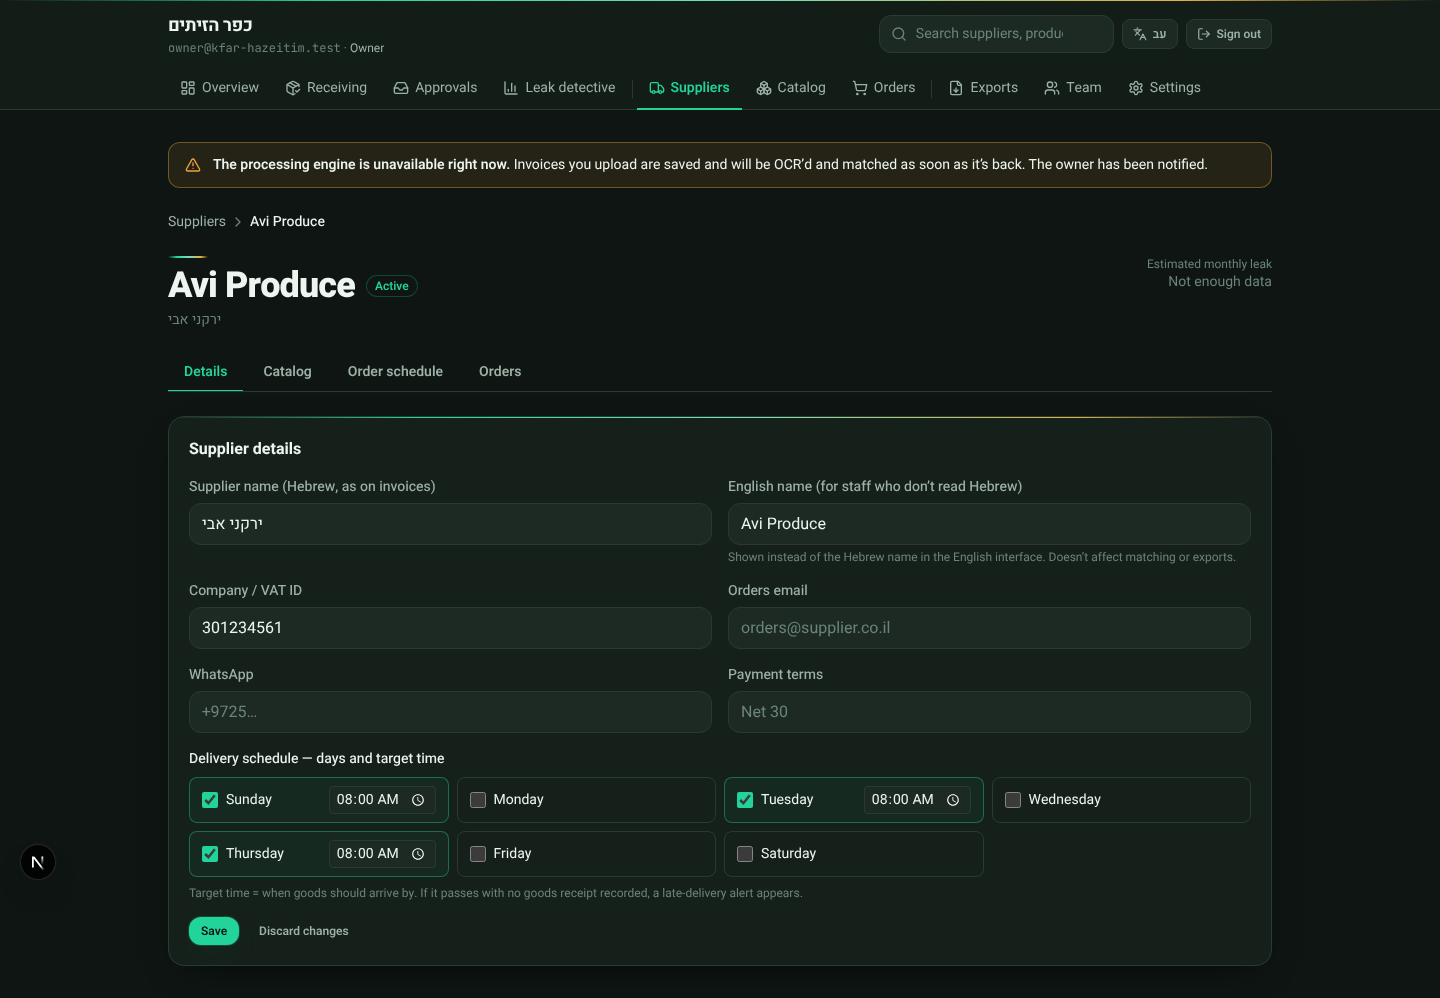
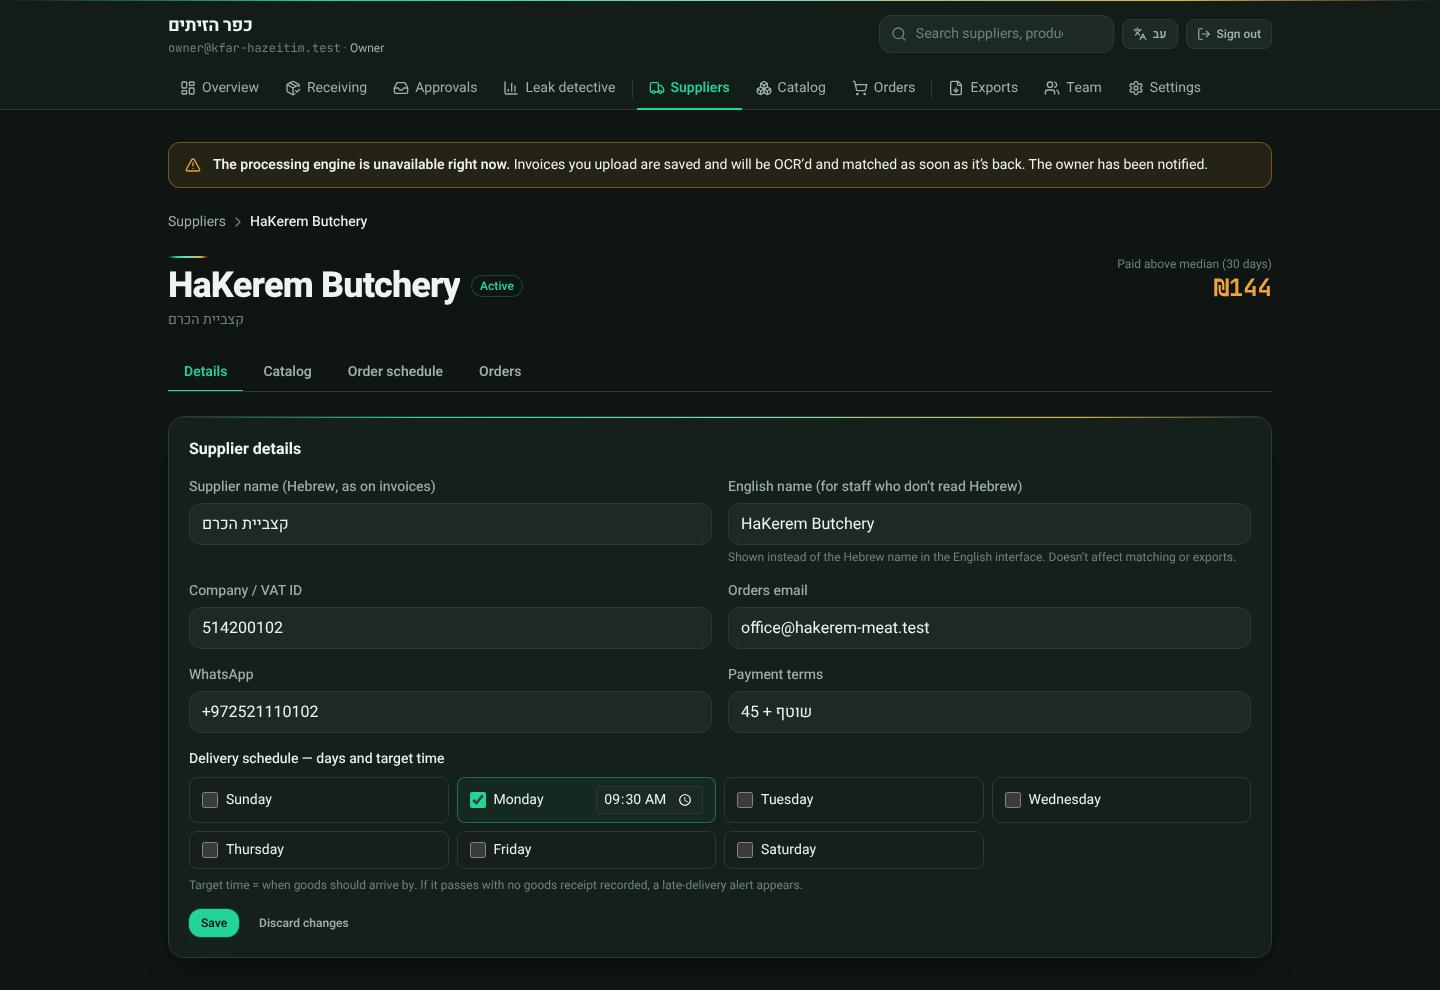
fix(ops-ui): money-QA round — supplier leak on paid basis, accounting export statuses + Israel-time days, details tab seeded from server, restaurant name lang=he
- supplier header sums paidExcessIls (₪144 = leaks page) instead of the monthExcessIls projection (₪328); relabelled 'Paid above median (30 days)'
- exports: include 'disputed' (real purchases; status column flags them), exclude unverified ocr_pending/parsed; restaurant-tz day bounds + printed date (00:30 IL on the 1st was in the previous month); exports/period.ts documents the rule; UI note updated
- supplier Details/Schedule tabs get initialData from the server page (no 'Loading supplier…' wait)
- restaurant name: <span lang=he dir=auto> in header + drawer
- tests: ops-routers.test.ts export cases (IL bounds, disputed, parsed excluded)

Claude-Session: https://claude.ai/code/session_017ijqPCABPNRkVXRY17w1zZ

diff --git a/packages/api/src/routers/exports.ts b/packages/api/src/routers/exports.ts
@@ -7,6 +7,7 @@ import {
   invoices,
   lte,
   matchRuns,
+  restaurants,
   suppliers,
 } from '@restomatch/db';
 import { bookkeeperProcedure, requireFeature, router } from '../trpc';
@@ -15,6 +16,12 @@ import { bookkeeperProcedure, requireFeature, router } from '../trpc';
 const exportProcedure = bookkeeperProcedure.use(requireFeature('accounting_export'));
 import { toCsv } from '../exports/csv';
 import { toUniform1000Lines, type Uniform1000Invoice } from '../exports/uniform-1000';
+import {
+  DEFAULT_EXPORT_TZ,
+  EXPORTABLE_INVOICE_STATUSES,
+  exportPeriodBounds,
+  localIsoDate,
+} from '../exports/period';
 
 const PeriodSchema = z.object({
   from: z.string().date(),
@@ -23,16 +30,16 @@ const PeriodSchema = z.object({
 
 export const exportsRouter = router({
   /**
-   * CSV — approved/matched invoices in a period.
+   * CSV — every checked invoice in a period (see EXPORTABLE_INVOICE_STATUSES).
    * Format: invoice_number, date, supplier, totalExclVat, vat, totalInclVat, status, ocr_confidence.
    */
   invoicesCsv: exportProcedure
     .input(PeriodSchema)
     .query(async ({ ctx, input }) => {
-      const rows = await fetchInvoices(ctx.db, ctx.session.restaurantId, input.from, input.to);
+      const { rows, tz } = await fetchInvoices(ctx.db, ctx.session.restaurantId, input.from, input.to);
       const csv = toCsv(rows, [
         { header: 'מס׳ חשבונית', value: (r) => r.invoiceNumber },
-        { header: 'תאריך', value: (r) => r.invoiceDate?.toISOString().slice(0, 10) },
+        { header: 'תאריך', value: (r) => (r.invoiceDate ? localIsoDate(r.invoiceDate, tz) : null) },
         { header: 'ספק', value: (r) => r.supplierName },
         { header: 'ח.פ.', value: (r) => r.supplierBusinessId },
         { header: 'סכום ללא מע״מ', value: (r) => r.totalExclVat },
@@ -55,12 +62,12 @@ export const exportsRouter = router({
   uniform1000: exportProcedure
     .input(PeriodSchema)
     .query(async ({ ctx, input }) => {
-      const rows = await fetchInvoices(ctx.db, ctx.session.restaurantId, input.from, input.to);
+      const { rows, tz } = await fetchInvoices(ctx.db, ctx.session.restaurantId, input.from, input.to);
       const lines: Uniform1000Invoice[] = rows
         .filter((r) => r.invoiceNumber && r.invoiceDate && r.totalInclVat !== null)
         .map((r) => ({
           invoiceNumber: r.invoiceNumber!,
-          invoiceDate: (r.invoiceDate as Date).toISOString().slice(0, 10),
+          invoiceDate: localIsoDate(r.invoiceDate as Date, tz),
           supplierBusinessId: r.supplierBusinessId ?? '',
           supplierName: r.supplierName ?? '',
           totalExclVat: Number(r.totalExclVat ?? 0),
@@ -83,12 +90,15 @@ async function fetchInvoices(
   from: string,
   to: string,
 ) {
-  // Inclusive calendar-day bounds, pinned to UTC so the server's own timezone
-  // can't shift them (`setHours` used the process TZ and dropped invoices dated
-  // late on the last day when the server ran east of UTC).
-  const fromDate = new Date(`${from}T00:00:00.000Z`);
-  const toDate = new Date(`${to}T23:59:59.999Z`);
-  return db
+  // Calendar days in the restaurant's timezone, the same month the dashboard hero uses.
+  const [restaurant] = await db
+    .select({ timezone: restaurants.timezone })
+    .from(restaurants)
+    .where(eq(restaurants.id, restaurantId))
+    .limit(1);
+  const tz = restaurant?.timezone || DEFAULT_EXPORT_TZ;
+  const { start: fromDate, end: toDate } = exportPeriodBounds(from, to, tz);
+  const rows = await db
     .select({
       id: invoices.id,
       invoiceNumber: invoices.invoiceNumber,
@@ -109,11 +119,13 @@ async function fetchInvoices(
     .where(
       and(
         eq(invoices.restaurantId, restaurantId),
-        inArray(invoices.status, ['matched', 'approved', 'paid']),
+        inArray(invoices.status, [...EXPORTABLE_INVOICE_STATUSES]),
         gte(invoices.invoiceDate, fromDate),
         lte(invoices.invoiceDate, toDate),
       ),
-    );
+    )
+    .orderBy(invoices.invoiceDate);
+  return { rows, tz };
 }
 
 // Keep matchRuns import stable (referenced via JOIN in later expansions).

diff --git a/packages/api/src/__tests__/ops-routers.test.ts b/packages/api/src/__tests__/ops-routers.test.ts
@@ -298,7 +298,7 @@ describe('catalog import: user-fixable file errors are BAD_REQUEST with a stable
   });
 });
 
-describe('exports: the "to" day is inclusive regardless of server timezone', () => {
+describe('exports: Israel-time calendar days + every checked invoice', () => {
   beforeAll(async () => {
     await resetDb(db);
     A = await seedTenant(db, 'A');
@@ -307,14 +307,40 @@ describe('exports: the "to" day is inclusive regardless of server timezone', () 
     await resetDb(db);
   });
 
-  it('includes an invoice dated late on the last day', async () => {
+  async function setInvoice(status: 'approved' | 'disputed' | 'parsed', at: string) {
     await db
       .update(invoices)
-      .set({ status: 'approved', invoiceDate: new Date('2026-10-31T22:30:00.000Z') })
+      .set({ status, invoiceDate: new Date(at) })
       .where(eq(invoices.id, A.invoiceId));
+  }
+
+  it('includes an invoice late on the last day (22:30 Israel time)', async () => {
+    await setInvoice('approved', '2026-10-31T20:30:00.000Z'); // 31 Oct 22:30 IST (UTC+2)
     const out = await callerFor(A).exports.invoicesCsv({ from: '2026-10-01', to: '2026-10-31' });
     expect(out.rowCount).toBe(1);
-    const none = await callerFor(A).exports.invoicesCsv({ from: '2026-11-01', to: '2026-11-30' });
+  });
+
+  it('an invoice at 00:30 Israel time on the 1st belongs to that month (was: previous month in UTC)', async () => {
+    await setInvoice('approved', '2026-09-30T21:30:00.000Z'); // 1 Oct 00:30 IDT (UTC+3)
+    const oct = await callerFor(A).exports.invoicesCsv({ from: '2026-10-01', to: '2026-10-31' });
+    const sep = await callerFor(A).exports.invoicesCsv({ from: '2026-09-01', to: '2026-09-30' });
+    expect(oct.rowCount).toBe(1);
+    expect(sep.rowCount).toBe(0);
+    // The printed date is the Israel calendar day too.
+    expect(oct.content).toContain('2026-10-01');
+    expect(oct.content).not.toContain('2026-09-30');
+  });
+
+  it('includes disputed invoices (real purchases) but not unverified ones', async () => {
+    await setInvoice('disputed', '2026-10-10T08:00:00.000Z');
+    const out = await callerFor(A).exports.invoicesCsv({ from: '2026-10-01', to: '2026-10-31' });
+    expect(out.rowCount).toBe(1);
+    expect(out.content).toContain('disputed');
+    const u = await callerFor(A).exports.uniform1000({ from: '2026-10-01', to: '2026-10-31' });
+    expect(u.rowCount).toBe(1);
+
+    await setInvoice('parsed', '2026-10-10T08:00:00.000Z');
+    const none = await callerFor(A).exports.invoicesCsv({ from: '2026-10-01', to: '2026-10-31' });
     expect(none.rowCount).toBe(0);
   });
 });

diff --git a/apps/web/app/dashboard/suppliers/[id]/page.tsx b/apps/web/app/dashboard/suppliers/[id]/page.tsx
@@ -1,3 +1,4 @@
+import { createServerCaller } from '@/lib/trpc/server';
 import { SupplierDetailsTab } from './tab-details';
 import { SupplierCatalogTab } from './tab-catalog';
 import { SupplierScheduleTab } from './tab-schedule';
@@ -10,7 +11,10 @@ export const dynamic = 'force-dynamic';
  * Supplier-as-hub panels. The layout renders the header + tab bar; this page
  * reads ?tab= and renders the matching panel (default: details). Catalog/orders
  * are async server components; details/schedule are client (they own the
- * suppliers.get query + mutations).
+ * suppliers.get query + mutations) and are seeded with the server-loaded row as
+ * `initialData`, so they render immediately instead of waiting on a client
+ * round trip (QA saw the Details tab stuck on "Loading supplier…" when that
+ * first client request stalled).
  */
 export default async function SupplierDetailPage({
   params,
@@ -30,12 +34,19 @@ export default async function SupplierDetailPage({
   switch (tab) {
     case 'catalog':
       return <SupplierCatalogTab supplierId={id} />;
-    case 'schedule':
-      return <SupplierScheduleTab supplierId={id} />;
     case 'orders':
       return <SupplierOrdersTab supplierId={id} />;
+    case 'schedule':
     case 'details':
-    default:
-      return <SupplierDetailsTab supplierId={id} />;
+    default: {
+      // Ownership is enforced in suppliers.get (the layout already 404s a foreign id).
+      const caller = await createServerCaller();
+      const initial = await caller.suppliers.get({ supplierId: id });
+      return tab === 'schedule' ? (
+        <SupplierScheduleTab supplierId={id} initial={initial} />
+      ) : (
+        <SupplierDetailsTab supplierId={id} initial={initial} />
+      );
+    }
   }
 }

diff --git a/packages/api/src/exports/period.ts b/packages/api/src/exports/period.ts
@@ -1,0 +1,40 @@
+import { endOfDayInTz, startOfDayInTz } from '../lib/time';
+
+/**
+ * Invoice statuses that belong in an accounting export: every invoice the
+ * restaurant actually received and the system has checked.
+ *
+ * - `matched` / `approved` / `paid`: checked purchases.
+ * - `disputed`: still a real purchase and a real tax document. It's only blocked
+ *   by an open discrepancy, and the export's status column flags it. Leaving it
+ *   out made October's export ₪4k short of the month's checked spend.
+ *
+ * Excluded: `ocr_pending` and `parsed`. They aren't verified yet: the numbers may
+ * still be wrong, or a consolidated invoice is still pending its delivery notes.
+ */
+export const EXPORTABLE_INVOICE_STATUSES = ['matched', 'disputed', 'approved', 'paid'] as const;
+
+export const DEFAULT_EXPORT_TZ = 'Asia/Jerusalem';
+
+/**
+ * Inclusive calendar-day bounds (`YYYY-MM-DD`) in the restaurant's timezone,
+ * the same month the dashboard hero uses. With UTC bounds, an invoice dated
+ * 00:00–03:00 Israel time on the 1st fell into the previous month.
+ * Noon UTC is always inside the same calendar day for any |offset| < 12h.
+ */
+export function exportPeriodBounds(from: string, to: string, tz: string): { start: Date; end: Date } {
+  return {
+    start: startOfDayInTz(new Date(`${from}T12:00:00.000Z`), tz),
+    end: endOfDayInTz(new Date(`${to}T12:00:00.000Z`), tz),
+  };
+}
+
+/** `YYYY-MM-DD` of an instant in `tz` (the date printed in the export). */
+export function localIsoDate(d: Date, tz: string): string {
+  return new Intl.DateTimeFormat('en-CA', {
+    timeZone: tz,
+    year: 'numeric',
+    month: '2-digit',
+    day: '2-digit',
+  }).format(d);
+}

diff --git a/apps/web/app/dashboard/suppliers/[id]/tab-details.tsx b/apps/web/app/dashboard/suppliers/[id]/tab-details.tsx
@@ -2,6 +2,7 @@
 
 import { useState } from 'react';
 import { useRouter } from 'next/navigation';
+import type { Supplier } from '@restomatch/db';
 import { trpc } from '@/lib/trpc/client';
 import { ErrorNotice, Spinner, friendlyError, useToast } from '@/lib/components';
 import { useT } from '@/lib/i18n/client';
@@ -16,13 +17,13 @@ import { scheduleToForm, toUpdatePatch } from '../form-logic';
  * edited with one code path. Saves via suppliers.update; cleared fields are
  * sent as null so they really clear.
  */
-export function SupplierDetailsTab({ supplierId }: { supplierId: string }) {
+export function SupplierDetailsTab({ supplierId, initial }: { supplierId: string; initial?: Supplier }) {
   const t = useT(suppliersNs);
   const tc = useT(components);
   const toast = useToast();
   const router = useRouter();
   const utils = trpc.useUtils();
-  const supplier = trpc.suppliers.get.useQuery({ supplierId });
+  const supplier = trpc.suppliers.get.useQuery({ supplierId }, { initialData: initial });
   // Bumped after a successful save so the form re-hydrates from the saved row.
   const [formKey, setFormKey] = useState(0);
 

diff --git a/apps/web/app/dashboard/suppliers/[id]/tab-schedule.tsx b/apps/web/app/dashboard/suppliers/[id]/tab-schedule.tsx
@@ -3,6 +3,7 @@
 import { useState } from 'react';
 import type { OrderSchedule, OrderWindow } from '@restomatch/types';
 import { CalendarClock, Plus, Trash2 } from 'lucide-react';
+import type { Supplier } from '@restomatch/db';
 import { trpc } from '@/lib/trpc/client';
 import {
   Button,
@@ -74,12 +75,12 @@ function formToSchedule(rows: WindowForm[]): OrderSchedule | null {
  * can actually be persisted (it used to fall back to the empty state, leaving
  * the old schedule in the database).
  */
-export function SupplierScheduleTab({ supplierId }: { supplierId: string }) {
+export function SupplierScheduleTab({ supplierId, initial }: { supplierId: string; initial?: Supplier }) {
   const t = useT(suppliersNs);
   const tc = useT(components);
   const toast = useToast();
   const utils = trpc.useUtils();
-  const supplier = trpc.suppliers.get.useQuery({ supplierId });
+  const supplier = trpc.suppliers.get.useQuery({ supplierId }, { initialData: initial });
   const [rows, setRows] = useState<WindowForm[] | null>(null);
 
   const update = trpc.suppliers.update.useMutation({

diff --git a/apps/web/app/dashboard/suppliers/[id]/layout.tsx b/apps/web/app/dashboard/suppliers/[id]/layout.tsx
@@ -41,14 +41,20 @@ export default async function SupplierDetailLayout({
     throw err;
   }
 
-  // Real-leak ₪ for this supplier: sum monthExcessIls across its leak rows.
+  // Real-leak ₪ for this supplier: what was actually PAID above the 90-day
+  // median over the last 30 days (paidExcessIls) — the same basis as the leaks
+  // page. monthExcessIls is a projection that re-prices past purchases at the
+  // latest price and overstated this header (₪328 vs ₪144 paid for HaKerem).
   // owner.leaks is advanced_analytics-gated — a closed gate (or any error) just
   // leaves the figure muted; we never fabricate a number.
   let leakIls: number | null = null;
   try {
     const leaks = await caller.owner.leaks({ limit: 100 });
     const rows = leaks.filter((l) => l.supplierId === id);
-    leakIls = rows.length > 0 ? rows.reduce((sum, l) => sum + l.monthExcessIls, 0) : null;
+    leakIls =
+      rows.length > 0
+        ? rows.reduce((agorot, l) => agorot + Math.round(l.paidExcessIls * 100), 0) / 100
+        : null;
   } catch {
     leakIls = null;
   }

diff --git a/apps/web/lib/i18n/messages/accounting/he.ts b/apps/web/lib/i18n/messages/accounting/he.ts
@@ -31,5 +31,5 @@ export const he = {
   downloaded: 'הקובץ ירד — {count} חשבוניות.',
   downloadedEmpty: 'אין חשבוניות מאושרות בטווח הזה. הקובץ ירד ריק (כותרות בלבד).',
   failed: 'ההורדה נכשלה.',
-  note: 'נכללות רק חשבוניות בסטטוס "הותאמה", "אושרה" או "שולמה". חשבוניות עם חריגות פתוחות לא יופיעו.',
+  note: 'נכללות כל החשבוניות שנבדקו: "הותאמה", "בחריגה" (מסומנת בעמודת הסטטוס), "אושרה" ו"שולמה". חשבוניות שעדיין בעיבוד OCR או חשבוניות ריכוז שממתינות לתעודות משלוח אינן נכללות. התאריכים לפי שעון ישראל.',
 };

diff --git a/apps/web/app/dashboard/layout.tsx b/apps/web/app/dashboard/layout.tsx
@@ -64,7 +64,11 @@ export default async function DashboardLayout({ children }: { children: React.Re
               />
               <div className="min-w-0 flex-1 lg:flex-none">
                 <p className="truncate text-lg font-bold tracking-tight text-ink">
-                  {active.restaurantName}
+                  {/* Tenant data (usually Hebrew) inside a possibly-English UI: mark the
+                      language and isolate its direction without changing alignment. */}
+                  <span lang="he" dir="auto">
+                    {active.restaurantName}
+                  </span>
                 </p>
                 <p className="truncate text-xs text-subtle">
                   <span className="font-mono tabular-nums">{email}</span>

diff --git a/apps/web/lib/i18n/messages/accounting/en.ts b/apps/web/lib/i18n/messages/accounting/en.ts
@@ -30,5 +30,5 @@ export const en: Shape<typeof he> = {
   downloaded: 'Downloaded — {count} invoices.',
   downloadedEmpty: 'No approved invoices in this range. The file downloaded empty (headers only).',
   failed: 'Download failed.',
-  note: 'Only invoices with status “matched”, “approved” or “paid” are included. Invoices with open discrepancies are left out.',
+  note: 'Every checked invoice is included: “matched”, “disputed” (flagged in the status column), “approved” and “paid”. Invoices still in OCR, and consolidated invoices waiting for their delivery notes, are left out. Dates follow Israel time.',
 };

diff --git a/apps/web/app/dashboard/nav.tsx b/apps/web/app/dashboard/nav.tsx
@@ -215,7 +215,11 @@ export function MobileNav({
           >
             <div className="flex items-start justify-between gap-3 border-b border-line px-4 py-4">
               <div className="min-w-0">
-                <p className="truncate text-base font-bold text-ink">{restaurantName}</p>
+                <p className="truncate text-base font-bold text-ink">
+                  <span lang="he" dir="auto">
+                    {restaurantName}
+                  </span>
+                </p>
                 <p className="truncate font-mono text-xs text-subtle">{email}</p>
               </div>
               <button

diff --git a/apps/web/lib/i18n/messages/suppliers/he.ts b/apps/web/lib/i18n/messages/suppliers/he.ts
@@ -80,7 +80,7 @@ export const he = {
     breadcrumb: 'ספקים',
     active: 'פעיל',
     inactive: 'לא פעיל',
-    leakLabel: 'דליפה חודשית מוערכת',
+    leakLabel: 'שולם מעל המחיר החציוני (30 יום)',
     leakNone: 'אין מספיק נתונים',
     tabsLabel: 'תצוגת ספק',
     tabs: {
